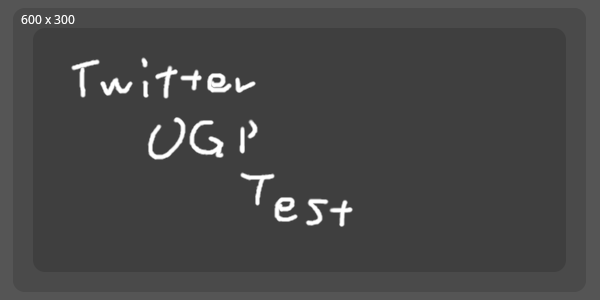
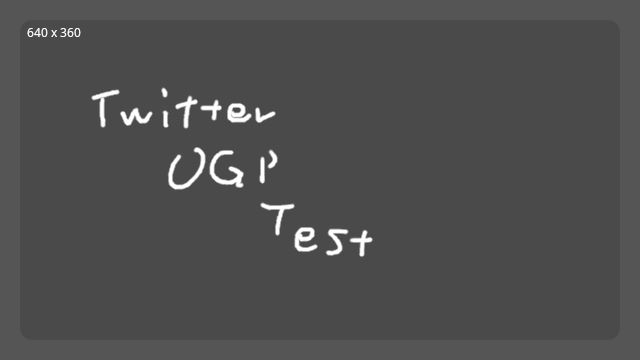
update

diff --git a/twitter/summary_large_image/index.html b/twitter/summary_large_image/index.html
@@ -5,9 +5,12 @@
     <meta property="og:url" content="https://canoypa.github.io" />
     <meta property="og:title" content="OGP Test" />
     <meta property="og:description" content="OGP のテスト" />
-    <meta property="og:image" content="https://canoypa.github.io/ogp-test/image.png" />
-    <meta property="og:image:width" content="600" />
-    <meta property="og:image:height" content="300" />
+    <meta
+      property="og:image"
+      content="https://canoypa.github.io/ogp-test/image.png"
+    />
+    <meta property="og:image:width" content="640" />
+    <meta property="og:image:height" content="360" />
 
     <meta name="twitter:card" content="summary_large_image" />
   </head>
